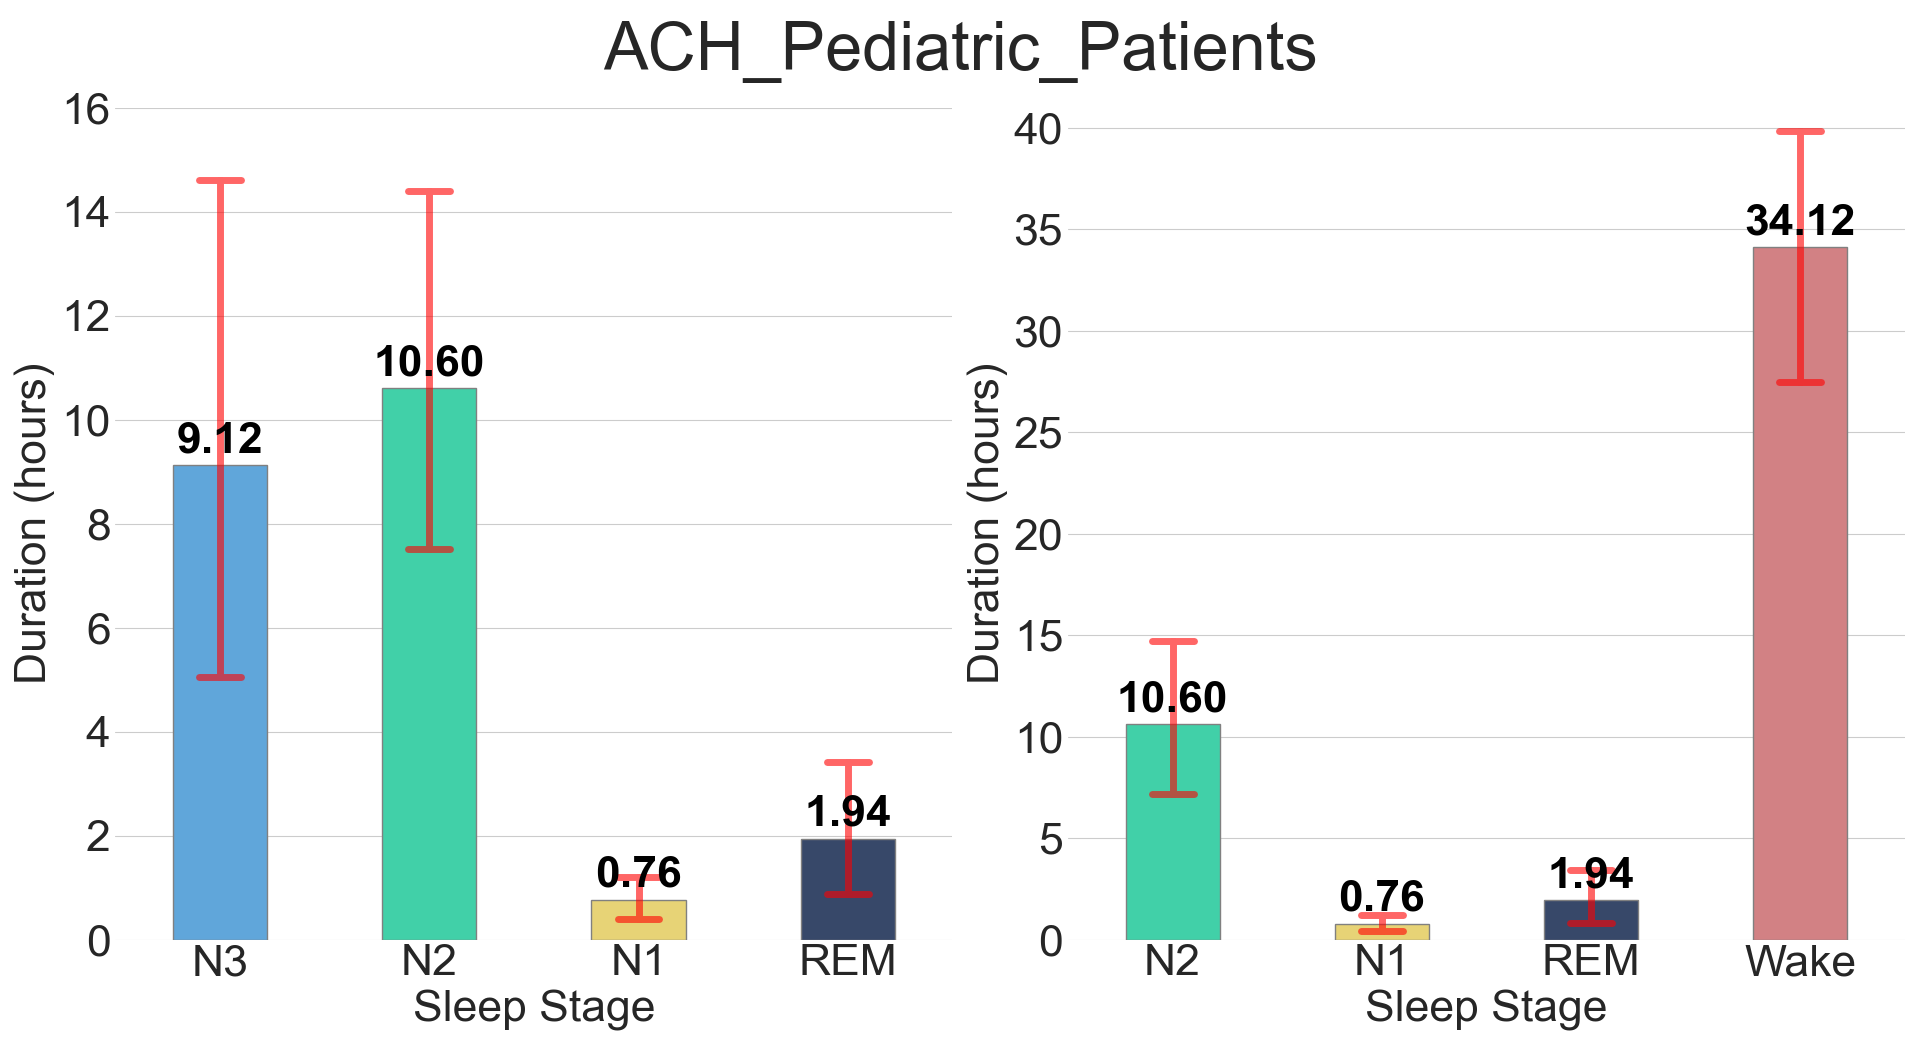
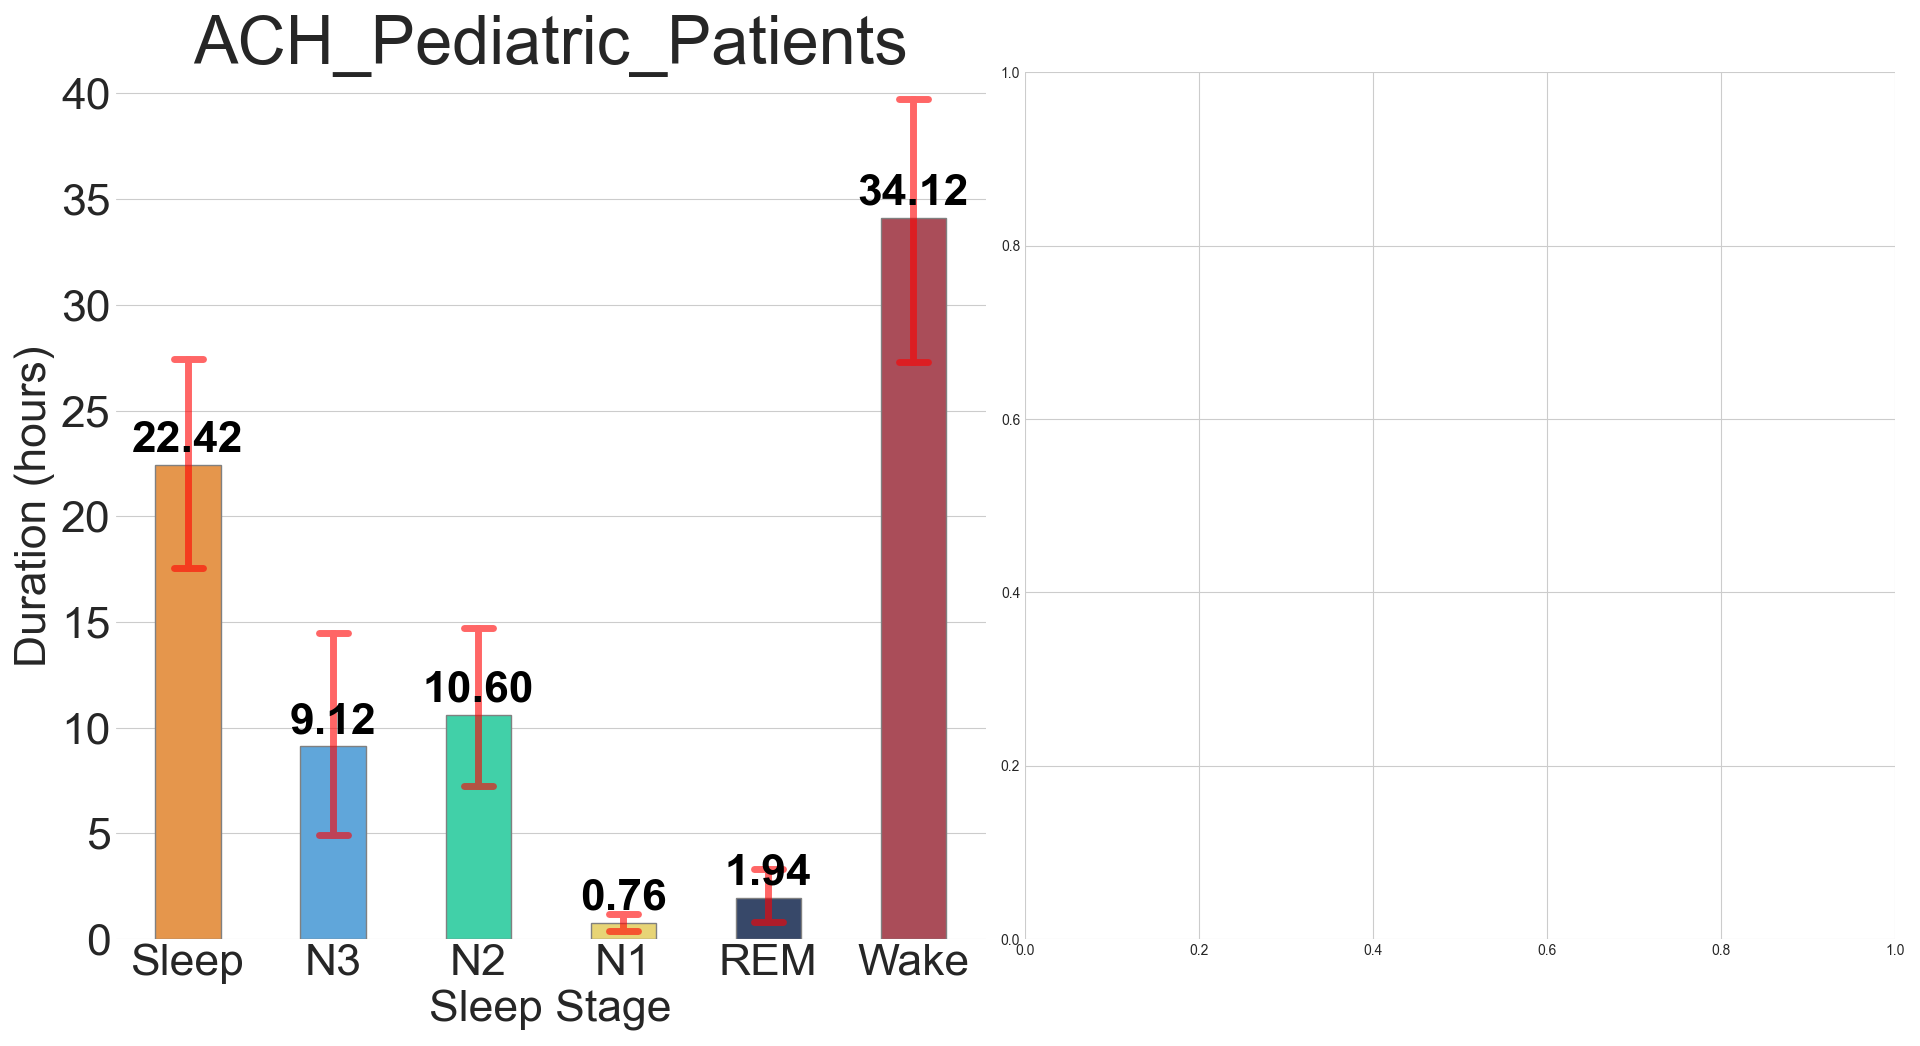
finalize images for ILAE poster, include Sleep (all sleep stages)

diff --git a/pyeeg_toolbox/persyst/ILAE_2025_Figures.py b/pyeeg_toolbox/persyst/ILAE_2025_Figures.py
@@ -293,6 +293,7 @@ class Spike_Activity_Analyzer:
         axs.tick_params(axis='x', labelsize=32)
         axs.tick_params(axis='y', labelsize=32)
         axs.set_ylim(0, 41) # set y-axis limit to 60 minutes
+        axs.set_title(f"{self.study_name}", fontsize=48)
 
         # # Plot Sleep Stages N2, N1, REM, Wake
         # axs = all_axs[1]
@@ -319,7 +320,7 @@ class Spike_Activity_Analyzer:
         # axs.tick_params(axis='y', labelsize=32)
         # axs.set_ylim(0, 41) # set y-axis limit to 60 minutes
 
-        plt.suptitle(f"{self.study_name}", fontsize=48)
+        #plt.suptitle(f"{self.study_name}", fontsize=48)
 
         plt.get_current_fig_manager().full_screen_toggle()
         plt.tight_layout()
@@ -658,7 +659,7 @@ class Spike_Activity_Analyzer:
         spike_data_df.loc[:, 'Amplitude'] = spike_data_df.Amplitude.values*1000*1000
 
         # Compare SOZ vs Non-SOZ
-        fig, axs = plt.subplots(1, 5, figsize=FIGSIZE)
+        fig, axs = plt.subplots(1, len(self.sleep_stages_ls), figsize=FIGSIZE)
 
         # Compare SOZ vs Non-SOZ in the different sleep stages
         for si, stage_name in enumerate(self.sleep_stages_ls):
@@ -680,7 +681,7 @@ class Spike_Activity_Analyzer:
                 errorbar=errorbar_def,
                 err_kws=errorbar_characteristics,
                 linewidth=1, edgecolor=".5", 
-                width=0.8, gap=0.0,
+                width=0.9, gap=0.00,
                 estimator=np.mean,
                 ax=plt_ax
                 )
@@ -1099,7 +1100,7 @@ class Spike_Activity_Analyzer:
             stages_auroc[stage_name] = auroc_vals
             pass
 
-        stat_val, p_val = stats.kruskal(stages_auroc['N3'], stages_auroc['N2'], stages_auroc['N1'], stages_auroc['REM'], stages_auroc['Wake'])
+        stat_val, p_val = stats.kruskal(stages_auroc['Sleep'], stages_auroc['N3'], stages_auroc['N2'], stages_auroc['N1'], stages_auroc['REM'], stages_auroc['Wake'])
         ########################
         stages_auroc_df = pd.DataFrame(stages_auroc).melt(var_name='Stage', value_name='AUROC', ignore_index=True)
         fig, axs = plt.subplots(1, 1, figsize=FIGSIZE)
@@ -1129,74 +1130,74 @@ class Spike_Activity_Analyzer:
         plt.savefig(self.images_output_path / f"SOZ_prediction_Wilcoxon_Test_Results_Barchart.png")
         plt.close()
         
-        # ########################
-        # test_results = np.ones((len(self.sleep_stages_ls),len(self.sleep_stages_ls)))
-        # for ia, stage_name_a in enumerate( self.sleep_stages_ls):
-        #     aurocs_a = stages_auroc[stage_name_a]
-        #     assert len(aurocs_a) == nr_pats, "More than one entry per patient"
-        #     for ib, stage_name_b in enumerate(self.sleep_stages_ls):
-        #         aurocs_b = stages_auroc[stage_name_b]
-        #         assert len(aurocs_b) == nr_pats, "More than one entry per patient"
-        #         # run Wilcoxon signed-rank test
-        #         if ia != ib:
-        #             _, p_val_a = stats.shapiro(aurocs_a)
-        #             _, p_val_b = stats.shapiro(aurocs_b)
+        ########################
+        test_results = np.ones((len(self.sleep_stages_ls),len(self.sleep_stages_ls)))+100
+        for ia, stage_name_a in enumerate( self.sleep_stages_ls):
+            aurocs_a = stages_auroc[stage_name_a]
+            assert len(aurocs_a) == nr_pats, "More than one entry per patient"
+            for ib, stage_name_b in enumerate(self.sleep_stages_ls):
+                aurocs_b = stages_auroc[stage_name_b]
+                assert len(aurocs_b) == nr_pats, "More than one entry per patient"
+                # run Wilcoxon signed-rank test
+                if ia != ib:
+                    _, p_val_a = stats.shapiro(aurocs_a)
+                    _, p_val_b = stats.shapiro(aurocs_b)
 
-        #             # If both samples are normally distributed, use paired t-test, otherwise use Wilcoxon signed-rank test
-        #             #if p_val_a >= 0.05 and p_val_b >= 0.05:
-        #             if False:
-        #                 # run paired t-test
-        #                 t_stat, p_val = stats.ttest_rel(spike_activity_a, spike_activity_b, nan_policy='raise', alternative='two-sided')
-        #                 #print(f"Spike Occ.Rate {stage_name_a} vs {stage_name_b}\nPaired t-test: t-statistic = {t_stat:.2f}, p-value = {p_val:.3f}")
-        #             else:
-        #                 # run Wilcoxon signed-rank test
-        #                 #print(f"Spike Occ.Rate {stage_name_a} vs {stage_name_b}\nWilcoxon signed-rank test: statistic = {wilcoxon_stat:.2f}, p-value = {wilcoxon_p_val:.3f}")
-        #                 # run Wilcoxon signed-rank test
+                    # If both samples are normally distributed, use paired t-test, otherwise use Wilcoxon signed-rank test
+                    #if p_val_a >= 0.05 and p_val_b >= 0.05:
+                    if False:
+                        # run paired t-test
+                        t_stat, p_val = stats.ttest_rel(spike_activity_a, spike_activity_b, nan_policy='raise', alternative='two-sided')
+                        #print(f"Spike Occ.Rate {stage_name_a} vs {stage_name_b}\nPaired t-test: t-statistic = {t_stat:.2f}, p-value = {p_val:.3f}")
+                    else:
+                        # run Wilcoxon signed-rank test
+                        #print(f"Spike Occ.Rate {stage_name_a} vs {stage_name_b}\nWilcoxon signed-rank test: statistic = {wilcoxon_stat:.2f}, p-value = {wilcoxon_p_val:.3f}")
+                        # run Wilcoxon signed-rank test
 
-        #                 alternative_str = 'greater'
-        #                 if np.mean(aurocs_a) < np.mean(aurocs_b):
-        #                     alternative_str = 'less'
-        #                 alternative_str = 'two-sided'
-        #                 wilcoxon_stat, p_val = stats.wilcoxon(aurocs_a, aurocs_b, nan_policy='raise', alternative=alternative_str) # two-sided, 'less', 'greater'
-        #                 #print(f"Spike Occ.Rate {stage_name_a} vs {stage_name_b}\nWilcoxon signed-rank test: statistic = {wilcoxon_stat:.2f}, p-value = {wilcoxon_p_val:.3f}")
-        #             test_results[ia,ib] = p_val
-        # pass
+                        alternative_str = 'greater'
+                        if np.mean(aurocs_a) < np.mean(aurocs_b):
+                            alternative_str = 'less'
+                        alternative_str = 'two-sided'
+                        wilcoxon_stat, p_val = stats.wilcoxon(aurocs_a, aurocs_b, nan_policy='raise', alternative=alternative_str) # two-sided, 'less', 'greater'
+                        #print(f"Spike Occ.Rate {stage_name_a} vs {stage_name_b}\nWilcoxon signed-rank test: statistic = {wilcoxon_stat:.2f}, p-value = {wilcoxon_p_val:.3f}")
+                    test_results[ia,ib] = p_val
+        pass
 
-        # # Create a mask
-        # mask = np.triu(np.ones_like(test_results, dtype=bool))
-        # threshold = 0.05
+        # Create a mask
+        mask = np.triu(np.ones_like(test_results, dtype=bool))
+        threshold = 0.05
 
-        # correction_methods = ['bonferroni', 'sidak', 'holm-sidak', 'holm', 'fdr_bh', 'fdr_by', 'fdr_tsbh', 'fdr_tsbky']
-        # correction_methods = ['fdr_bh']
+        correction_methods = ['bonferroni', 'sidak', 'holm-sidak', 'holm', 'fdr_bh', 'fdr_by', 'fdr_tsbh', 'fdr_tsbky']
+        correction_methods = ['fdr_bh']
 
-        # for method in correction_methods:
-        #     corrected_test_results = test_results.copy()
-        #     for ri in range(corrected_test_results.shape[0]):
-        #         _, corrected_p_values, _, _ = multipletests(test_results[ri][test_results[ri]<100], alpha=0.05, method=method) # bonferroni, sidak, holm-sidak, holm, fdr_bh, fdr_by, fdr_tsbh, fdr_tsbky
-        #         corrected_test_results[ri][test_results[ri]<100] = corrected_p_values
+        for method in correction_methods:
+            corrected_test_results = test_results.copy()
+            for ri in range(corrected_test_results.shape[0]):
+                _, corrected_p_values, _, _ = multipletests(test_results[ri][test_results[ri]<100], alpha=0.05, method=method) # bonferroni, sidak, holm-sidak, holm, fdr_bh, fdr_by, fdr_tsbh, fdr_tsbky
+                corrected_test_results[ri][test_results[ri]<100] = corrected_p_values
 
-        #     #print(f"Bonferroni corrected threshold: {threshold:.3f}")
-        #     #print(f"Holm-Bonferroni corrected p-values:\n{corrected_test_results}")
-        #     #print(f"Uncorrected p-values:\n{test_results}")
+            #print(f"Bonferroni corrected threshold: {threshold:.3f}")
+            #print(f"Holm-Bonferroni corrected p-values:\n{corrected_test_results}")
+            #print(f"Uncorrected p-values:\n{test_results}")
 
-        #     # Plot the heatmap of the test results
-        #     fig, axs = plt.subplots(1, 1, figsize=FIGSIZE)
-        #     ax = sns.heatmap(corrected_test_results, vmin=0, vmax=threshold, center=threshold, mask=mask, cmap='coolwarm', annot=True, fmt=".3f", annot_kws={"size": 32}, linewidths=.5, linecolor='white', cbar_kws={"shrink": .8},ax=axs)
-        #     cbar = ax.collections[0].colorbar
-        #     # Adjust the font size of the colorbar tick labels
-        #     cbar.ax.tick_params(labelsize=32) # Set specific font size
-        #     cbar.set_label('p value', fontsize=32) # Set colorbar label
+            # Plot the heatmap of the test results
+            fig, axs = plt.subplots(1, 1, figsize=FIGSIZE)
+            ax = sns.heatmap(corrected_test_results, vmin=0, vmax=threshold, center=threshold, mask=mask, cmap='coolwarm', annot=True, fmt=".3f", annot_kws={"size": 32}, linewidths=.5, linecolor='white', cbar_kws={"shrink": .8},ax=axs)
+            cbar = ax.collections[0].colorbar
+            # Adjust the font size of the colorbar tick labels
+            cbar.ax.tick_params(labelsize=32) # Set specific font size
+            cbar.set_label('p value', fontsize=32) # Set colorbar label
 
-        #     ax.grid(False)
-        #     ax.set_xticklabels(self.sleep_stages_ls, rotation=45, fontsize=32)
-        #     ax.set_yticklabels(self.sleep_stages_ls, rotation=0, fontsize=32)
-        #     alpha_str = r" $\alpha$"
-        #     plt.title(f"Spike Activity\nWilcoxon Signed-Rank Test p-values ({method} corrected)\n({alpha_str}:{threshold})", fontsize=36)
-        #     plt.get_current_fig_manager().full_screen_toggle()
-        #     plt.tight_layout()
-        #     plt.savefig(self.images_output_path / f"SOZ_prediction_Wilcoxon_Test_Results_{method}_corrected.png")
-        #     plt.close()
-        #     #######################
+            ax.grid(False)
+            ax.set_xticklabels(self.sleep_stages_ls, rotation=45, fontsize=32)
+            ax.set_yticklabels(self.sleep_stages_ls, rotation=0, fontsize=32)
+            alpha_str = r" $\alpha$"
+            plt.title(f"Spike Activity\nWilcoxon Signed-Rank Test p-values ({method} corrected)\n({alpha_str}:{threshold})", fontsize=36)
+            plt.get_current_fig_manager().full_screen_toggle()
+            plt.tight_layout()
+            plt.savefig(self.images_output_path / f"SOZ_prediction_Wilcoxon_Test_Results_{method}_corrected.png")
+            plt.close()
+            #######################
 
         return stages_auroc
 
@@ -1217,7 +1218,7 @@ class Spike_Activity_Analyzer:
         prediction_results_df = prediction_results_df.sort_values(by='HasSeizures').reset_index(drop=True)
 
         # Compare AUROC from patients with and without seizures
-        fig, axs = plt.subplots(1, 5, figsize=FIGSIZE)
+        fig, axs = plt.subplots(1, len(self.sleep_stages_ls), figsize=FIGSIZE)
 
         # Compare AUROC from the differenet sleep-stages and from patients with and without seizures
         legend_handles = []
@@ -1409,7 +1410,7 @@ if __name__ == "__main__":
 
     # Predict SOZ based on Spike Activity
     studies_ls =  [fr_ILAES2025_patients(), ACH_Pediatric_Patients_All()]
-    #studies_ls =  [ACH_Pediatric_Patients_All()]
+    studies_ls =  [ACH_Pediatric_Patients_All()]
 
     prediction_results_ls = []
     for study in studies_ls:

diff --git a/pyeeg_toolbox/persyst/analyze_data_generate_figures.py b/pyeeg_toolbox/persyst/analyze_data_generate_figures.py
@@ -1075,74 +1075,74 @@ class Spike_Activity_Analyzer:
         plt.savefig(self.images_output_path / f"SOZ_prediction_Wilcoxon_Test_Results_Barchart.png")
         plt.close()
         
-        # ########################
-        # test_results = np.ones((len(self.sleep_stages_ls),len(self.sleep_stages_ls)))
-        # for ia, stage_name_a in enumerate( self.sleep_stages_ls):
-        #     aurocs_a = stages_auroc[stage_name_a]
-        #     assert len(aurocs_a) == nr_pats, "More than one entry per patient"
-        #     for ib, stage_name_b in enumerate(self.sleep_stages_ls):
-        #         aurocs_b = stages_auroc[stage_name_b]
-        #         assert len(aurocs_b) == nr_pats, "More than one entry per patient"
-        #         # run Wilcoxon signed-rank test
-        #         if ia != ib:
-        #             _, p_val_a = stats.shapiro(aurocs_a)
-        #             _, p_val_b = stats.shapiro(aurocs_b)
+        ########################
+        test_results = np.ones((len(self.sleep_stages_ls),len(self.sleep_stages_ls)))
+        for ia, stage_name_a in enumerate( self.sleep_stages_ls):
+            aurocs_a = stages_auroc[stage_name_a]
+            assert len(aurocs_a) == nr_pats, "More than one entry per patient"
+            for ib, stage_name_b in enumerate(self.sleep_stages_ls):
+                aurocs_b = stages_auroc[stage_name_b]
+                assert len(aurocs_b) == nr_pats, "More than one entry per patient"
+                # run Wilcoxon signed-rank test
+                if ia != ib:
+                    _, p_val_a = stats.shapiro(aurocs_a)
+                    _, p_val_b = stats.shapiro(aurocs_b)
 
-        #             # If both samples are normally distributed, use paired t-test, otherwise use Wilcoxon signed-rank test
-        #             #if p_val_a >= 0.05 and p_val_b >= 0.05:
-        #             if False:
-        #                 # run paired t-test
-        #                 t_stat, p_val = stats.ttest_rel(spike_activity_a, spike_activity_b, nan_policy='raise', alternative='two-sided')
-        #                 #print(f"Spike Occ.Rate {stage_name_a} vs {stage_name_b}\nPaired t-test: t-statistic = {t_stat:.2f}, p-value = {p_val:.3f}")
-        #             else:
-        #                 # run Wilcoxon signed-rank test
-        #                 #print(f"Spike Occ.Rate {stage_name_a} vs {stage_name_b}\nWilcoxon signed-rank test: statistic = {wilcoxon_stat:.2f}, p-value = {wilcoxon_p_val:.3f}")
-        #                 # run Wilcoxon signed-rank test
+                    # If both samples are normally distributed, use paired t-test, otherwise use Wilcoxon signed-rank test
+                    #if p_val_a >= 0.05 and p_val_b >= 0.05:
+                    if False:
+                        # run paired t-test
+                        t_stat, p_val = stats.ttest_rel(spike_activity_a, spike_activity_b, nan_policy='raise', alternative='two-sided')
+                        #print(f"Spike Occ.Rate {stage_name_a} vs {stage_name_b}\nPaired t-test: t-statistic = {t_stat:.2f}, p-value = {p_val:.3f}")
+                    else:
+                        # run Wilcoxon signed-rank test
+                        #print(f"Spike Occ.Rate {stage_name_a} vs {stage_name_b}\nWilcoxon signed-rank test: statistic = {wilcoxon_stat:.2f}, p-value = {wilcoxon_p_val:.3f}")
+                        # run Wilcoxon signed-rank test
 
-        #                 alternative_str = 'greater'
-        #                 if np.mean(aurocs_a) < np.mean(aurocs_b):
-        #                     alternative_str = 'less'
-        #                 alternative_str = 'two-sided'
-        #                 wilcoxon_stat, p_val = stats.wilcoxon(aurocs_a, aurocs_b, nan_policy='raise', alternative=alternative_str) # two-sided, 'less', 'greater'
-        #                 #print(f"Spike Occ.Rate {stage_name_a} vs {stage_name_b}\nWilcoxon signed-rank test: statistic = {wilcoxon_stat:.2f}, p-value = {wilcoxon_p_val:.3f}")
-        #             test_results[ia,ib] = p_val
-        # pass
+                        alternative_str = 'greater'
+                        if np.mean(aurocs_a) < np.mean(aurocs_b):
+                            alternative_str = 'less'
+                        alternative_str = 'two-sided'
+                        wilcoxon_stat, p_val = stats.wilcoxon(aurocs_a, aurocs_b, nan_policy='raise', alternative=alternative_str) # two-sided, 'less', 'greater'
+                        #print(f"Spike Occ.Rate {stage_name_a} vs {stage_name_b}\nWilcoxon signed-rank test: statistic = {wilcoxon_stat:.2f}, p-value = {wilcoxon_p_val:.3f}")
+                    test_results[ia,ib] = p_val
+        pass
 
-        # # Create a mask
-        # mask = np.triu(np.ones_like(test_results, dtype=bool))
-        # threshold = 0.05
+        # Create a mask
+        mask = np.triu(np.ones_like(test_results, dtype=bool))
+        threshold = 0.05
 
-        # correction_methods = ['bonferroni', 'sidak', 'holm-sidak', 'holm', 'fdr_bh', 'fdr_by', 'fdr_tsbh', 'fdr_tsbky']
-        # correction_methods = ['fdr_bh']
+        correction_methods = ['bonferroni', 'sidak', 'holm-sidak', 'holm', 'fdr_bh', 'fdr_by', 'fdr_tsbh', 'fdr_tsbky']
+        correction_methods = ['fdr_bh']
 
-        # for method in correction_methods:
-        #     corrected_test_results = test_results.copy()
-        #     for ri in range(corrected_test_results.shape[0]):
-        #         _, corrected_p_values, _, _ = multipletests(test_results[ri][test_results[ri]<100], alpha=0.05, method=method) # bonferroni, sidak, holm-sidak, holm, fdr_bh, fdr_by, fdr_tsbh, fdr_tsbky
-        #         corrected_test_results[ri][test_results[ri]<100] = corrected_p_values
+        for method in correction_methods:
+            corrected_test_results = test_results.copy()
+            for ri in range(corrected_test_results.shape[0]):
+                _, corrected_p_values, _, _ = multipletests(test_results[ri][test_results[ri]<100], alpha=0.05, method=method) # bonferroni, sidak, holm-sidak, holm, fdr_bh, fdr_by, fdr_tsbh, fdr_tsbky
+                corrected_test_results[ri][test_results[ri]<100] = corrected_p_values
 
-        #     #print(f"Bonferroni corrected threshold: {threshold:.3f}")
-        #     #print(f"Holm-Bonferroni corrected p-values:\n{corrected_test_results}")
-        #     #print(f"Uncorrected p-values:\n{test_results}")
+            #print(f"Bonferroni corrected threshold: {threshold:.3f}")
+            #print(f"Holm-Bonferroni corrected p-values:\n{corrected_test_results}")
+            #print(f"Uncorrected p-values:\n{test_results}")
 
-        #     # Plot the heatmap of the test results
-        #     fig, axs = plt.subplots(1, 1, figsize=FIGSIZE)
-        #     ax = sns.heatmap(corrected_test_results, vmin=0, vmax=threshold, center=threshold, mask=mask, cmap='coolwarm', annot=True, fmt=".3f", annot_kws={"size": 32}, linewidths=.5, linecolor='white', cbar_kws={"shrink": .8},ax=axs)
-        #     cbar = ax.collections[0].colorbar
-        #     # Adjust the font size of the colorbar tick labels
-        #     cbar.ax.tick_params(labelsize=32) # Set specific font size
-        #     cbar.set_label('p value', fontsize=32) # Set colorbar label
+            # Plot the heatmap of the test results
+            fig, axs = plt.subplots(1, 1, figsize=FIGSIZE)
+            ax = sns.heatmap(corrected_test_results, vmin=0, vmax=threshold, center=threshold, mask=mask, cmap='coolwarm', annot=True, fmt=".3f", annot_kws={"size": 32}, linewidths=.5, linecolor='white', cbar_kws={"shrink": .8},ax=axs)
+            cbar = ax.collections[0].colorbar
+            # Adjust the font size of the colorbar tick labels
+            cbar.ax.tick_params(labelsize=32) # Set specific font size
+            cbar.set_label('p value', fontsize=32) # Set colorbar label
 
-        #     ax.grid(False)
-        #     ax.set_xticklabels(self.sleep_stages_ls, rotation=45, fontsize=32)
-        #     ax.set_yticklabels(self.sleep_stages_ls, rotation=0, fontsize=32)
-        #     alpha_str = r" $\alpha$"
-        #     plt.title(f"Spike Activity\nWilcoxon Signed-Rank Test p-values ({method} corrected)\n({alpha_str}:{threshold})", fontsize=36)
-        #     plt.get_current_fig_manager().full_screen_toggle()
-        #     plt.tight_layout()
-        #     plt.savefig(self.images_output_path / f"SOZ_prediction_Wilcoxon_Test_Results_{method}_corrected.png")
-        #     plt.close()
-        #     #######################
+            ax.grid(False)
+            ax.set_xticklabels(self.sleep_stages_ls, rotation=45, fontsize=32)
+            ax.set_yticklabels(self.sleep_stages_ls, rotation=0, fontsize=32)
+            alpha_str = r" $\alpha$"
+            plt.title(f"Spike Activity\nWilcoxon Signed-Rank Test p-values ({method} corrected)\n({alpha_str}:{threshold})", fontsize=36)
+            plt.get_current_fig_manager().full_screen_toggle()
+            plt.tight_layout()
+            plt.savefig(self.images_output_path / f"SOZ_prediction_Wilcoxon_Test_Results_{method}_corrected.png")
+            plt.close()
+            #######################
 
         return stages_auroc
 
